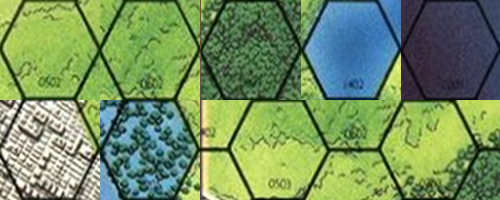
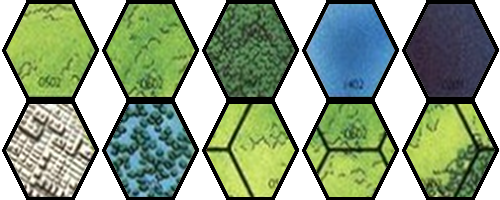
remove rmagick dependency from runtime into resource builder only

diff --git a/lib/resource_builder.rb b/lib/resource_builder.rb
@@ -1,10 +1,13 @@
 class ResourceBuilder
   class << self
+    include Magick
+    include ResourceBundle
 
-    #currently at 100,100
-    def write_hex_mask_file(w,h)
-      mask = Magick::Image.new(w,h) {self.background_color = "black"}
-      clip = Magick::Draw.new
+    def create_hex_mask
+      w = HEX_WIDTH
+      h = HEX_HEIGHT
+      mask = Image.new(w,h) {self.background_color = "black"}
+      clip = Draw.new
       clip.stroke('none')
       clip.fill('red')
       clip.polygon(
@@ -31,18 +34,16 @@ class ResourceBuilder
               0, h/2
       )
       clip.draw(mask)
-      mask.write('resources/images/hex_mask.png')
+      mask.write("#{IMAGES_DIR}/hex_mask.png")
+      Image.read("#{IMAGES_DIR}/hex_mask.png").first
     end
 
-    #currently at 100,100,6
-    def write_hex_outline_file(w,h,stroke_weight)
-      mask = Magick::Image.new(w,h) {
-        self.background_color = "black"
-      }
-      clip = Magick::Draw.new
+    def create_hex_overlay
+      w,h,s = HEX_WIDTH, HEX_HEIGHT, 6
+      overlay = Image.new(w,h) { self.background_color = "black" }
+      clip = Draw.new
       clip.stroke('none')
       clip.fill('white')
-      s = stroke_weight
       s2 = (s*3)/4
       p = points = [
         ((w*3)/4)-s2, 0+s2,
@@ -56,19 +57,20 @@ class ResourceBuilder
       clip.polygon(*(points[6..11]))
       clip.polygon(p[0],p[1],p[4],p[5],          p[10],p[11])
       clip.polygon(          p[4],p[5],p[6],p[7],p[10],p[11])
-      clip.draw(mask)
-      mask.transparent('white').write('resources/images/hex_outline.png')
+      clip.draw(overlay)
+      overlay.transparent('white').write("#{IMAGES_DIR}/hex_overlay.png")
+      Image.read("#{IMAGES_DIR}/hex_overlay.png").first
     end
 
-    #currently 100,100,9,c4da6b,456c4b
-    def write_default_tile_set(w,h,number_of_tiles,from_color,to_color)
+    def write_tile_set_hexes(name,number_of_tiles,from_color,to_color)
+      w, h = HEX_WIDTH, HEX_HEIGHT
       number_of_columns = Math.sqrt(number_of_tiles).to_i
       number_of_rows    = (number_of_tiles.to_f / number_of_columns).ceil
       width             = w*number_of_columns
       height            = h*number_of_rows
-      tile_set          = Magick::Image.new(width,height){ self.background_color = 'black' }
-      gradient          = tile_set.sparse_color(Magick::BarycentricColorInterpolate,0,0,from_color,width,0,to_color)
-      drawing = Magick::Draw.new
+      tile_set          = Image.new(width,height){ self.background_color = 'black' }
+      gradient          = tile_set.sparse_color(BarycentricColorInterpolate,0,0,from_color,width,0,to_color)
+      drawing           = Draw.new
       drawing.stroke('none')
       (0..number_of_rows-1).each do |row|
         (0..number_of_columns-1).each do |column|
@@ -81,9 +83,42 @@ class ResourceBuilder
         end
       end
       drawing.draw(tile_set)
-      FileUtils.mkdir_p('resources/tile_sets/default')
-      tile_set.write('resources/tile_sets/default/hexes.png')
+      FileUtils.mkdir_p("#{TILE_SET_DIR}/#{name}")
+      tile_set.write("#{TILE_SET_DIR}/#{name}/hexes.png")
+    end
+    def clean_hexes(tile_set_name)
+      window       = Gosu::Window.new(1,1,1)
+      mask         = find_or_create_hex_mask
+      hex_overlay  = find_or_create_hex_overlay
+      hexes        = Image.read("#{TILE_SET_DIR}/#{tile_set_name}/hexes.png").first
+      new_hexes    = ImageList.new
+      square_tiles = Gosu::Image.load_tiles(window, hexes, HEX_WIDTH, HEX_HEIGHT, true)
+      hex_tiles    = square_tiles.map{ |tile| tile.mask(window,hex_overlay,mask) }
+      rows         = hexes.rows/HEX_HEIGHT
+      columns      = hexes.columns/HEX_WIDTH
+
+      rows.times do |i|
+        hex_row = ImageList.new
+        columns.times do |j|
+          hex_row << hex_tiles[i*columns+j].to_rmagick
+        end
+        new_hexes << hex_row.append(false)
+      end
+      new_hexes.append(true).write("#{TILE_SET_DIR}/#{tile_set_name}/hexes.png")
     end
 
+    def create_or_clean_tile_set(tile_set_name)
+      if !File.exists?("#{TILE_SET_DIR}/#{tile_set_name}/hexes.png")
+        write_tile_set_hexes(tile_set_name,9,'#c4da6b','#456c4b')
+      end
+      clean_hexes(tile_set_name)
+    end
+
+    def find_or_create_hex_mask
+      begin; Image.read('resources/images/hex_mask.png').first;    rescue; create_hex_mask;    end
+    end
+    def find_or_create_hex_overlay
+      begin; Image.read('resources/images/hex_overlay.png').first; rescue; create_hex_overlay; end
+    end
   end
 end

diff --git a/lib/input_handler.rb b/lib/input_handler.rb
@@ -42,8 +42,8 @@ class InputHandler
 
     def initialize(window)
       @milliseconds = Gosu::milliseconds
-      @x            = window.mouse_x
-      @y            = window.mouse_y
+      @x            = window.mouse_x.floor
+      @y            = window.mouse_y.floor
     end
 
     attr_reader :milliseconds, :x, :y
@@ -59,12 +59,12 @@ class InputHandler
   attr_reader :mouse_event
 
   def mouse_down!(button)
-    register_event(:mouse_down, {:button=>button,:x=>@window.mouse_x,:y=>@window.mouse_y} )
+    register_event(:mouse_down, {:button=>button,:x=>mouse_event.x,:y=>mouse_event.y} )
     @down_events[button] = mouse_event
   end
 
   def mouse_up!(button)
-    register_event(:mouse_up, {:button=>button,:x=>@window.mouse_x,:y=>@window.mouse_y} )
+    register_event(:mouse_up, {:button=>button,:x=>mouse_event.x,:y=>mouse_event.y} )
     if MouseEvent.new(@window).within_click_threshold_of(@down_events.delete(button))
       if @click_events[button]
         mouse_double_click!(button)
@@ -76,12 +76,12 @@ class InputHandler
   end
 
   def mouse_click!(button)
-    register_event(:mouse_click, {:button=>button,:x=>@window.mouse_x,:y=>@window.mouse_y} )
+    register_event(:mouse_click, {:button=>button,:x=>mouse_event.x,:y=>mouse_event.y} )
     @click_events[button] = nil
   end
 
   def mouse_double_click!(button)
-    register_event(:mouse_double_click, {:button=>button,:x=>@window.mouse_x,:y=>@window.mouse_y} )
+    register_event(:mouse_double_click, {:button=>button,:x=>mouse_event.x,:y=>mouse_event.y} )
   end
 
   def register_event(event, opts={})

diff --git a/lib/resource_bundle.rb b/lib/resource_bundle.rb
@@ -1,6 +1,8 @@
-class ResourceBundle
-  HEX_WIDTH  = 100
-  HEX_HEIGHT = 100
+module ResourceBundle
+  HEX_WIDTH    = 100
+  HEX_HEIGHT   = 100
+  IMAGES_DIR   = 'resources/images'
+  TILE_SET_DIR = 'resources/tile_sets'
   class << self
     def load(window, tile_set)
       @window = window
@@ -14,15 +16,13 @@ class ResourceBundle
     end
     def hex_tiles
       return @hex_tiles if @hex_tiles
-      square_tiles = Gosu::Image.load_tiles(@window, "resources/tile_sets/#{@tile_set}/hexes.png", HEX_WIDTH, HEX_HEIGHT, true)
-      @hex_tiles = square_tiles.map{ |tile| tile.mask(@window,hex_overlay,mask) }
+      @hex_tiles = Gosu::Image.load_tiles(@window, "resources/tile_sets/#{@tile_set}/hexes.png", HEX_WIDTH, HEX_HEIGHT, true)
     end
 
-    def hex_overlay;     @hex_overlay  ||= Magick::Image.read(      'resources/images/hex_outline.png').first; end
     def hex_check_box;   @hex_uncheck  ||= Gosu::Image.new(@window, 'resources/images/hex_check_box.png');     end
     def hex_uncheck_box; @hex_check    ||= Gosu::Image.new(@window, 'resources/images/hex_uncheck_box.png');   end
-    def mask;            @mask         ||= Magick::Image.read(      'resources/images/hex_mask.png').first;    end
     def background;      @background   ||= Gosu::Image.new(@window, 'resources/images/background.png', true);  end
     def cursor;          @cursor       ||= Gosu::Image.new(@window, 'resources/images/cursor.png');            end
+    def mask;            @mask         ||= ChunkyPNG::Image.from_file('resources/images/hex_mask.png');        end
   end
 end

diff --git a/lib/hex_board.rb b/lib/hex_board.rb
@@ -59,6 +59,10 @@ class HexBoard < Widget
     hex.state = @window.hex_palette.state_selected if hex && @window.hex_palette.state_selected
   end
 
+  def r(p); ChunkyPNG::Color.r(p); end
+  def g(p); ChunkyPNG::Color.g(p); end
+  def b(p); ChunkyPNG::Color.b(p); end
+
   def hex_at(x,y)
     relative_x           = x - @x - @x_offset
     relative_y           = y - @y - @y_offset
@@ -67,20 +71,20 @@ class HexBoard < Widget
     row    = ( (relative_y - offset_due_to_column) / row_height  ).floor
     x_in_tile = relative_x - (column*column_width)
     y_in_tile = relative_y - ((row*row_height)+offset_due_to_column)
-    pixel = ResourceBundle.mask.get_pixels(x_in_tile,y_in_tile,1,1)[0]
-    if pixel.red      == 255 && pixel.green == 255
+    pixel = ResourceBundle.mask.get_pixel(x_in_tile,y_in_tile)
+    if r(pixel)     == 255 && g(pixel) == 255
       #bottom left
       column -= 1
       row += 1 if !column.even?
-    elsif pixel.red   == 255
+    elsif r(pixel)  == 255
       #top left
       column -= 1
       row -= 1 if column.even?
-    elsif pixel.green == 255
+    elsif g(pixel)  == 255
       #bottom right
       column += 1
       row += 1 if !column.even?
-    elsif pixel.blue  == 255
+    elsif b(pixel)  == 255
       #top right
       column += 1
       row -= 1 if column.even?

diff --git a/config/boot.rb b/config/boot.rb
@@ -1,6 +1,7 @@
 require "rubygems"
 require "bundler"
 
+Bundler.setup(:default)
 Bundler.require(:default)
 
 require 'active_support/inflector'
